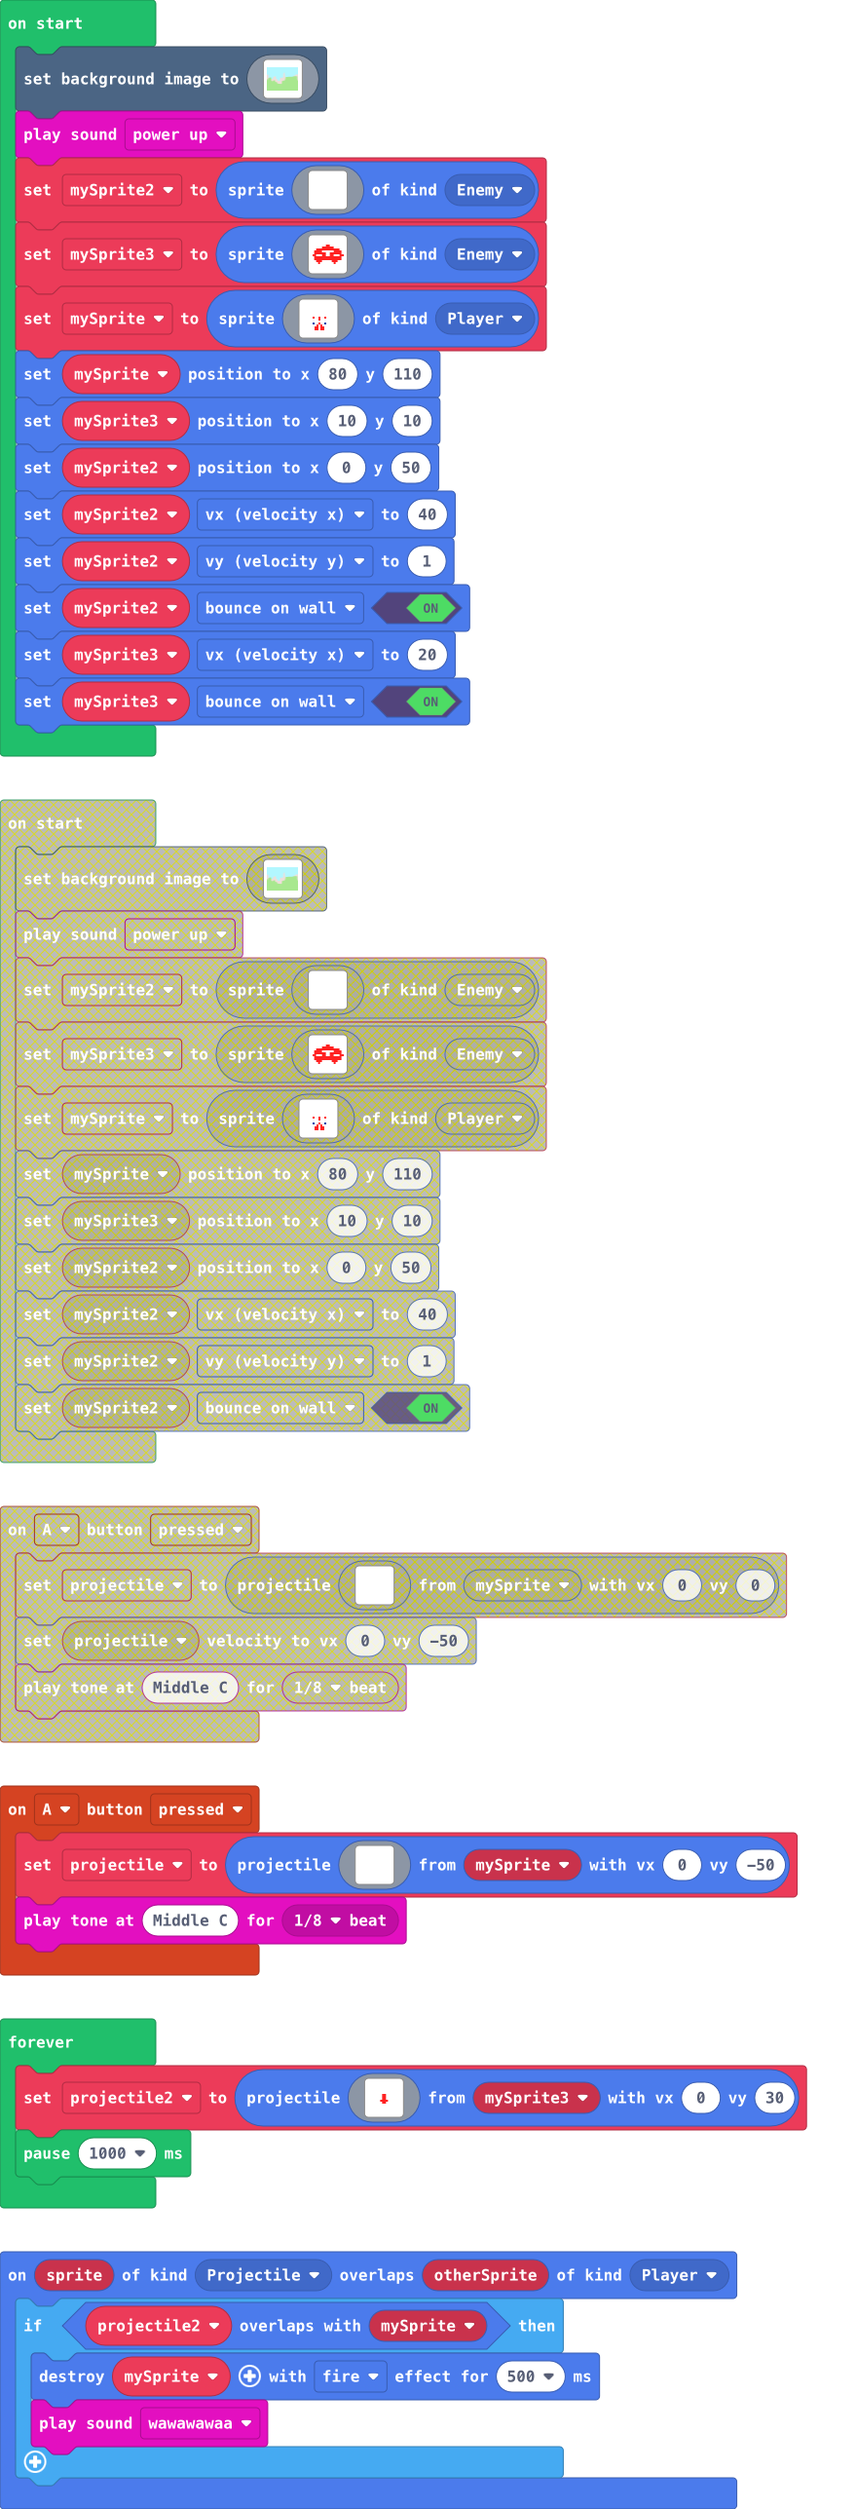
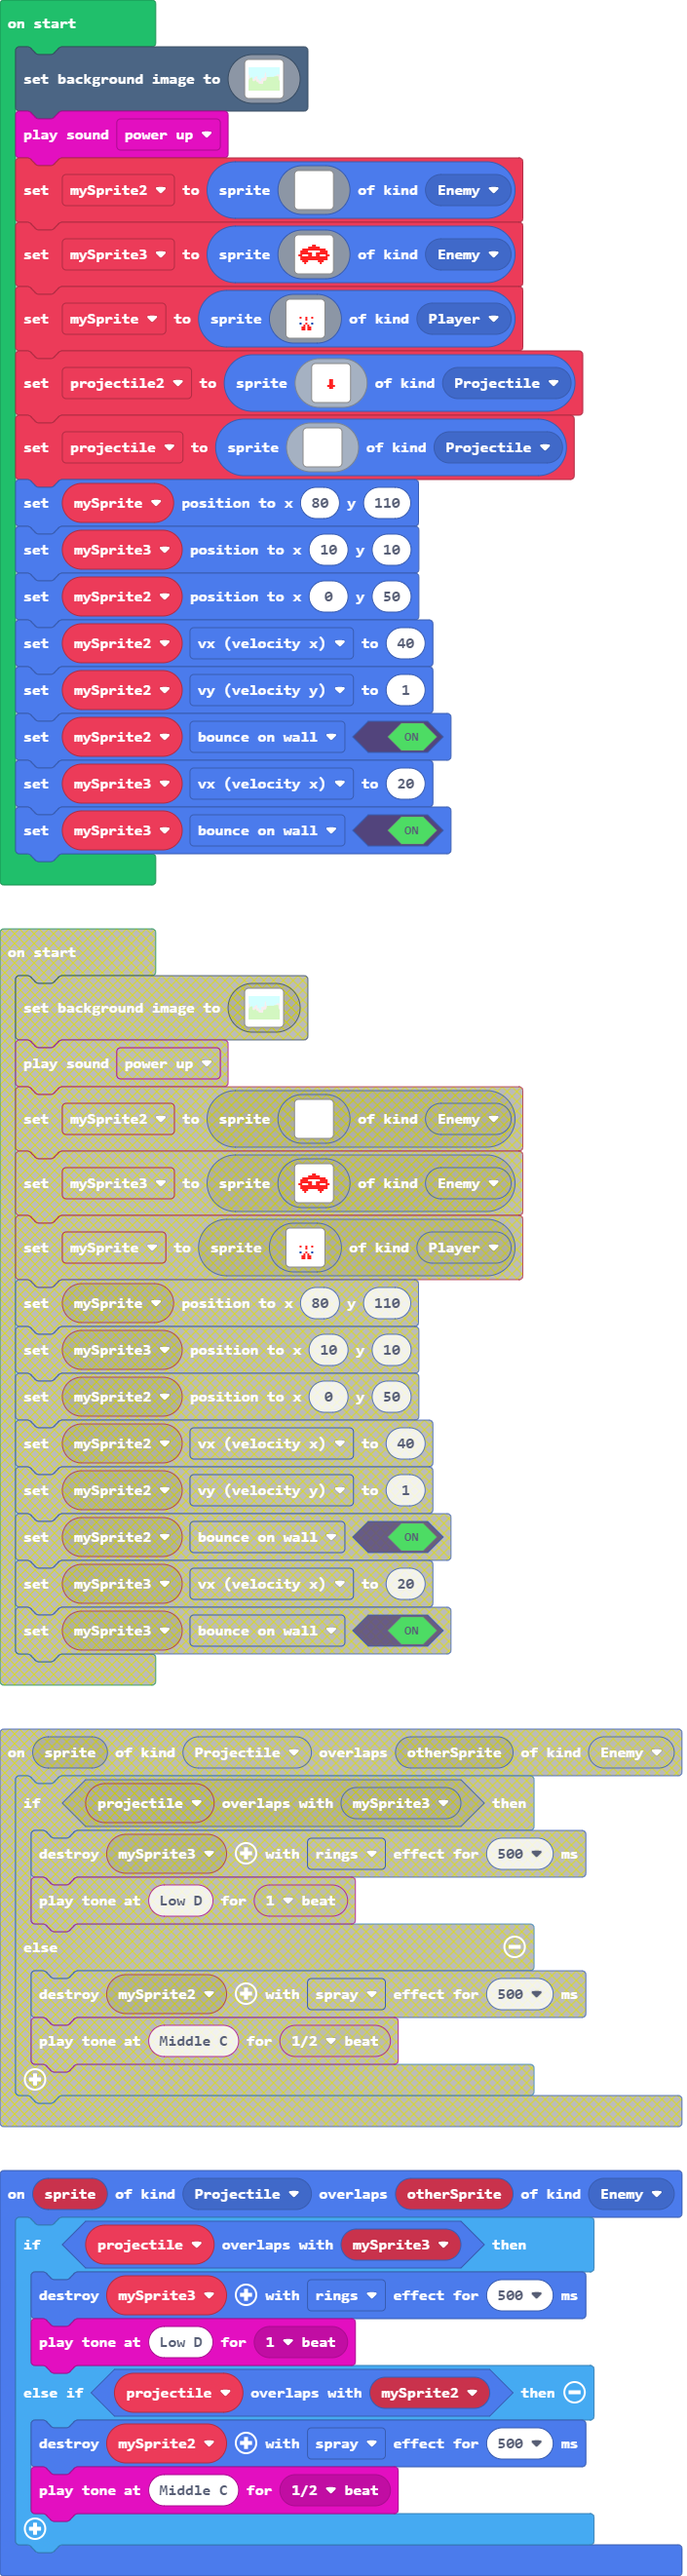
Declare projectile

diff --git a/main.ts b/main.ts
@@ -1,6 +1,3 @@
-namespace SpriteKind {
-    export const EnemyProjectile = SpriteKind.create()
-}
 controller.anyButton.onEvent(ControllerButtonEvent.Pressed, function () {
     controller.moveSprite(mySprite, 100, 100)
 })
@@ -46,7 +43,7 @@ sprites.onOverlap(SpriteKind.Projectile, SpriteKind.Enemy, function (sprite, oth
     if (projectile.overlapsWith(mySprite3)) {
         mySprite3.destroy(effects.rings, 500)
         music.playTone(147, music.beat(BeatFraction.Whole))
-    } else {
+    } else if (projectile.overlapsWith(mySprite2)) {
         mySprite2.destroy(effects.spray, 500)
         music.playTone(262, music.beat(BeatFraction.Half))
     }
@@ -56,8 +53,8 @@ sprites.onOverlap(SpriteKind.Player, SpriteKind.Enemy, function (sprite, otherSp
     music.wawawawaa.play()
 })
 let EnemyCounter = 0
-let projectile2: Sprite = null
 let projectile: Sprite = null
+let projectile2: Sprite = null
 let mySprite: Sprite = null
 let mySprite3: Sprite = null
 let mySprite2: Sprite = null
@@ -238,6 +235,42 @@ mySprite = sprites.create(img`
     . . . . . . . . . . . . . . . . 
     . . . . . . . . . . . . . . . . 
     `, SpriteKind.Player)
+projectile2 = sprites.create(img`
+    . . . . . . . . . . . . . . . . 
+    . . . . . . . . . . . . . . . . 
+    . . . . . . . . . . . . . . . . 
+    . . . . . . . . . . . . . . . . 
+    . . . . . . . . . . . . . . . . 
+    . . . . . . . . . . . . . . . . 
+    . . . . . . . 2 2 . . . . . . . 
+    . . . . . . . 2 2 . . . . . . . 
+    . . . . . . . 2 2 . . . . . . . 
+    . . . . . . 2 2 2 2 . . . . . . 
+    . . . . . . . 2 2 . . . . . . . 
+    . . . . . . . . . . . . . . . . 
+    . . . . . . . . . . . . . . . . 
+    . . . . . . . . . . . . . . . . 
+    . . . . . . . . . . . . . . . . 
+    . . . . . . . . . . . . . . . . 
+    `, SpriteKind.Projectile)
+projectile = sprites.create(img`
+    . . . . . . . . . . . . . . . . 
+    . . . . . . . . . . . . . . . . 
+    . . . . . . . . . . . . . . . . 
+    . . . . . . . . . . . . . . . . 
+    . . . . . . . . . . . . . . . . 
+    . . . . . . . . . . . . . . . . 
+    . . . . . . . . . . . . . . . . 
+    . . . . . . . . . . . . . . . . 
+    . . . . . . . . 1 . . . . . . . 
+    . . . . . . . . 1 . . . . . . . 
+    . . . . . . . . 1 . . . . . . . 
+    . . . . . . . . . . . . . . . . 
+    . . . . . . . . . . . . . . . . 
+    . . . . . . . . . . . . . . . . 
+    . . . . . . . . . . . . . . . . 
+    . . . . . . . . . . . . . . . . 
+    `, SpriteKind.Projectile)
 mySprite.setPosition(80, 110)
 mySprite3.setPosition(10, 10)
 mySprite2.setPosition(0, 50)
